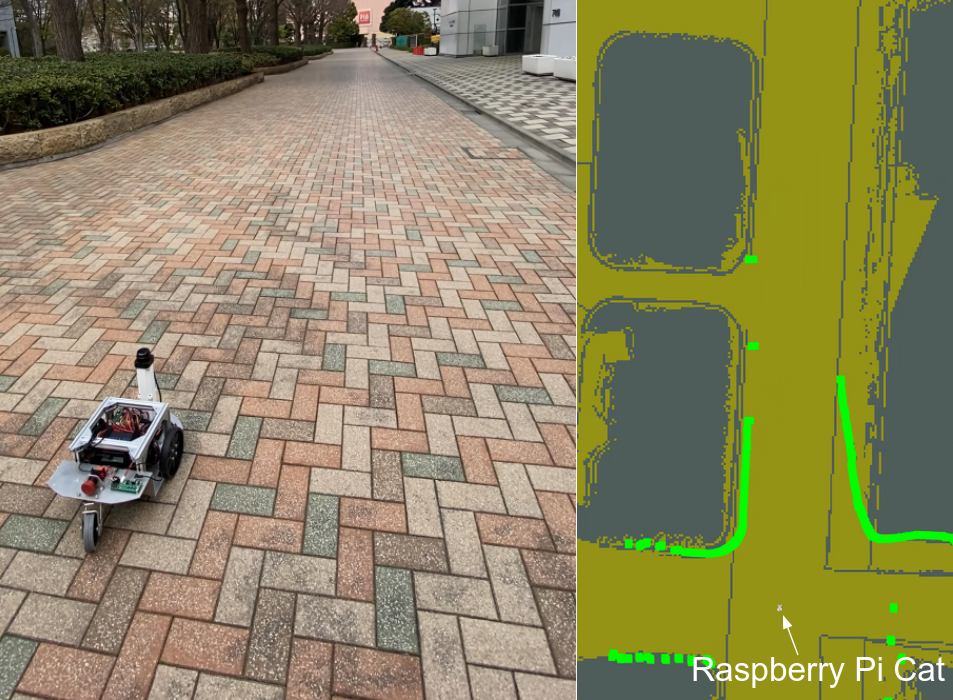
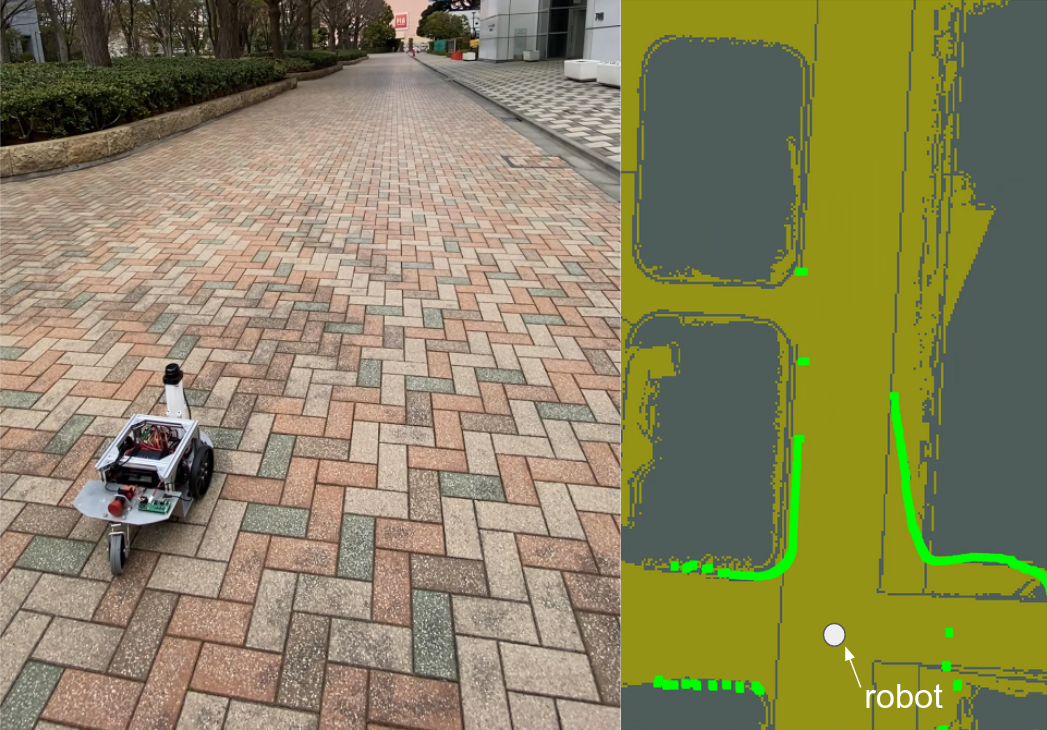
画像の修正

diff --git a/main.tex b/main.tex
@@ -68,12 +68,13 @@ it works on the mobile robot for the first time.
 利用できる電力に制限があり、
 また、計算能力に余力がないと、ロボットの動作が不安定になる可能性がある。
 
-
 そこで本稿では、このパッケージを屋外移動ロボットで用い、
 実機がこのパッケージで実際にナビゲーション可能かどうかと、
 実環境での計算量を調査する。
-2章で今回行った実験の環境や結果, 実験に用いるROSパッケージについて説明し、
-3章では結言を述べる。
+
+本稿は4章で構成される。
+2章で実機への適用と今回行った実験の環境について説明し、
+3章で評価を行い、4章で結言を述べる。
 
 %※ 講演番号、講演会名、ページ番号は記載しないようにして下さい。
 \section{実装}%===========================
@@ -100,7 +101,7 @@ DRAMとしてDDR4-3200 64GBを持つノート型パソコン（ノートPC）
 \begin{figure}[htb]
   \centering
    \includegraphics[height=55mm]{./figs/raspicat.png}
-   \caption{experimental setup}
+   \caption{Raspberry Pi Cat}
 	\label{fig:raspicat}
 \end{figure}
 
@@ -218,7 +219,7 @@ $\theta$軸は6[deg]ごとに60分割したので、
 
 \begin{figure}[htb]
   \centering
-   \includegraphics[height=55mm]{./figs/raspicat-no-local.png}
+   \includegraphics[height=58mm]{./figs/raspicat-online.png}
    \caption{calculation of value function on navigaion}
 	\label{fig:raspicat-no-local}
 \end{figure}
@@ -228,12 +229,14 @@ $\theta$軸は6[deg]ごとに60分割したので、
 価値反復が終了して最適解が得られたあとに、
 ロボットをスタート地点からゴール地点まで走らせる
 試行も10回行った。
+
 \begin{figure}[htb]
   \centering
-   \includegraphics[height=55mm]{./figs/raspicat-after-planning.png}
+   \includegraphics[height=58mm]{./figs/raspicat-offline.png}
    \caption{offline planning}
 	\label{fig:raspicat-after-planning}
 \end{figure}
+
 この試行（オフライン計算を用いる試行）の時間を、
 上記のスタートと同時に計算を開始する試行（オンライン計算を用いる試行）
 から引くと、オンラインで計算にかかった実質的な時間となる。
@@ -279,11 +282,37 @@ $\theta$軸は6[deg]ごとに60分割したので、
 
 図\ref{fig:tsudanuma-long-path}にあるスタートからゴールまでの
 $158$[m]を走行させて、前節よりも長距離を走行できることを確認した。
-図\ref{fig:value-function}にはゴール地点を指示してから$40$[s]後の価値関数を示す。
 オンライン計算、オフライン計算を一度ずつ試行しただけであるが、
 走行時間を比較したものを表\ref{table:result2}に示す。
 オンライン計算の開始時以外には、どちらの試行でも
 ロボットの走行には特に乱れがなかった。
+
+\begin{figure}[htb]
+  \centering
+   \includegraphics[height=45mm]{./figs/tsudanuma-long.png}
+   \caption{the goal and path}
+	\label{fig:tsudanuma-long-path}
+\end{figure}
+
+\begin{figure}[htb]
+  \centering
+   \includegraphics[height=45mm]{./figs/raspicat-long-value.png}
+   \caption{value functon at the start running}
+	\label{fig:raspicat-long-path}
+\end{figure}
+
+図\ref{fig:raspicat-long-path}にロボットが走り出せる状態になったときの価値関数を示し、
+図\ref{fig:raspicat-value-function}にはゴールに到達する直前の最終的な価値関数を示す。
+ロボットの走行開始時には、価値関数は計算途中のため収束していない。
+そのため計算途中の方策を用いているが、
+ロボットは乱れた挙動をすることなく走行することができた。
+
+\begin{figure}[htb]
+  \centering
+   \includegraphics[height=45mm]{./figs/raspicat-value-function.png}
+   \caption{completion of value function}
+	\label{fig:raspicat-value-function}
+\end{figure}
 
 表のようにオンライン計算とオフライン計算での
 所要時間の差は$35.1$[s]であった。
@@ -293,21 +322,6 @@ $158$[m]を走行させて、前節よりも長距離を走行できることを
 現象は確認されなかった。
 ゴール地点が同じなら価値反復の計算量が変わることはないため、
 試行を重ねても、この所要時間の差は大きく変わらないと考えられる。
-
-
-\begin{figure}[htb]
-  \centering
-   \includegraphics[height=55mm]{./figs/tsudanuma-long.png}
-   \caption{the goal and path}
-	\label{fig:tsudanuma-long-path}
-\end{figure}
-
-\begin{figure}[htb]
-  \centering
-   \includegraphics[height=53mm]{./figs/tsudanuma-long-value.png}
-   \caption{value function after 40 seconds}
-	\label{fig:value-function}
-\end{figure}
 
 \begin{table}[hbtp]
 	\caption{Required time for each trial}
